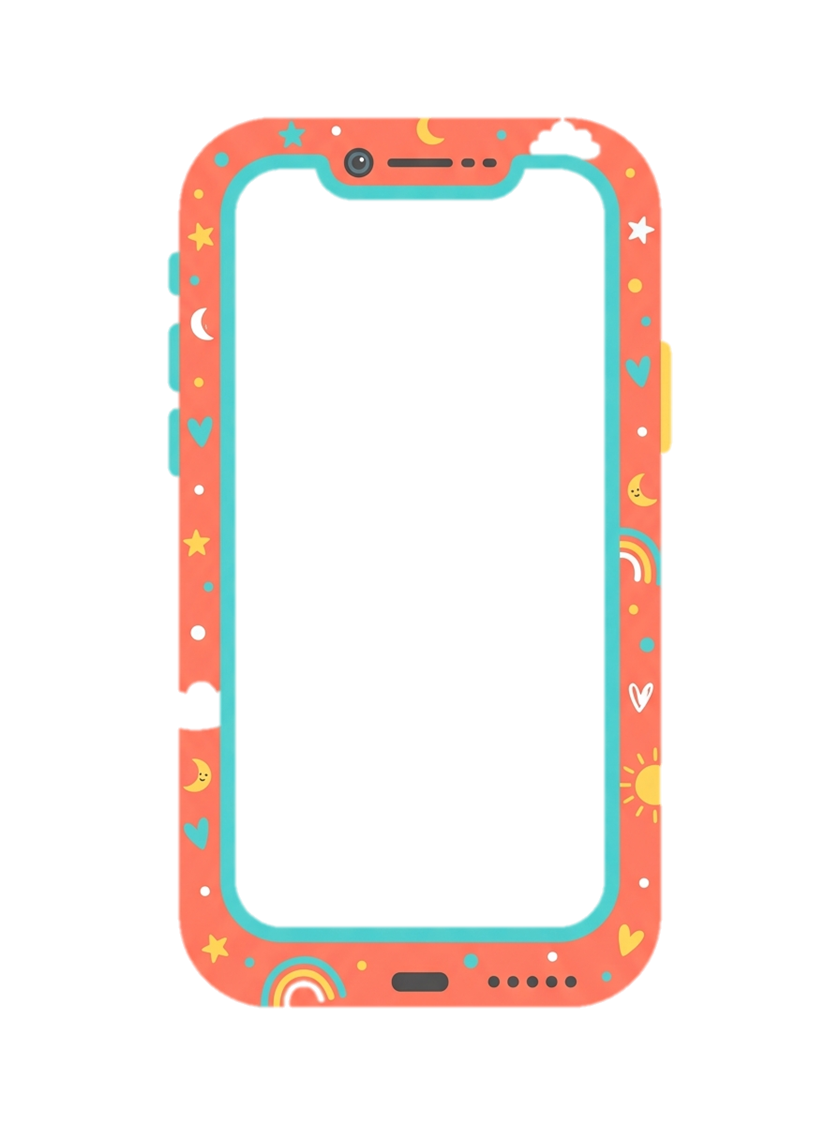
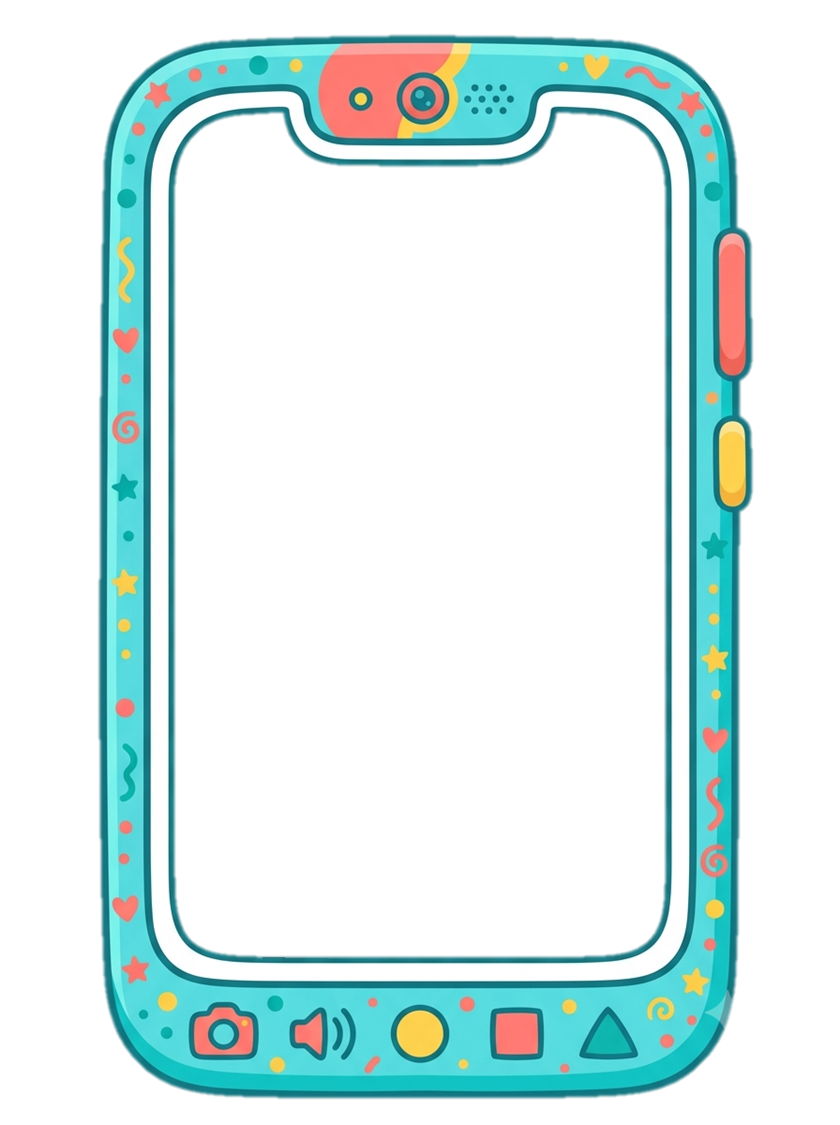
Add files via upload

diff --git a/index.html b/index.html
@@ -32,8 +32,8 @@
         /* Phone frame */
         .phone-frame-container {
             position: relative;
-            width: 85%;
-            max-width: 420px;
+            width: 90%;
+            max-width: 450px;
             margin: 0 auto 10px;
         }
         .phone-frame {
@@ -44,10 +44,10 @@
         }
         .phone-screen {
             position: absolute;
-            top: 19.2%;
-            left: 30.1%;
-            width: 39.8%;
-            height: 61.7%;
+            top: 15.6%;
+            left: 23.5%;
+            width: 53.8%;
+            height: 68.0%;
             overflow: hidden;
             background: #f0f0f0;
         }
@@ -266,7 +266,6 @@
 
     // ====== RESIZE STICKERS ======
     function makeStickerResizable(sticker) {
-        // Mouse wheel
         sticker.addEventListener('wheel', function(e) {
             e.preventDefault();
             e.stopPropagation();
@@ -276,7 +275,6 @@
             sticker.style.fontSize = newSize + 'px';
         });
 
-        // Touch double-tap to cycle sizes
         let lastTap = 0;
         sticker.addEventListener('touchstart', function(e) {
             const now = Date.now();
@@ -291,7 +289,6 @@
             lastTap = now;
         });
 
-        // Double-click to remove
         sticker.addEventListener('dblclick', function() {
             sticker.remove();
         });
